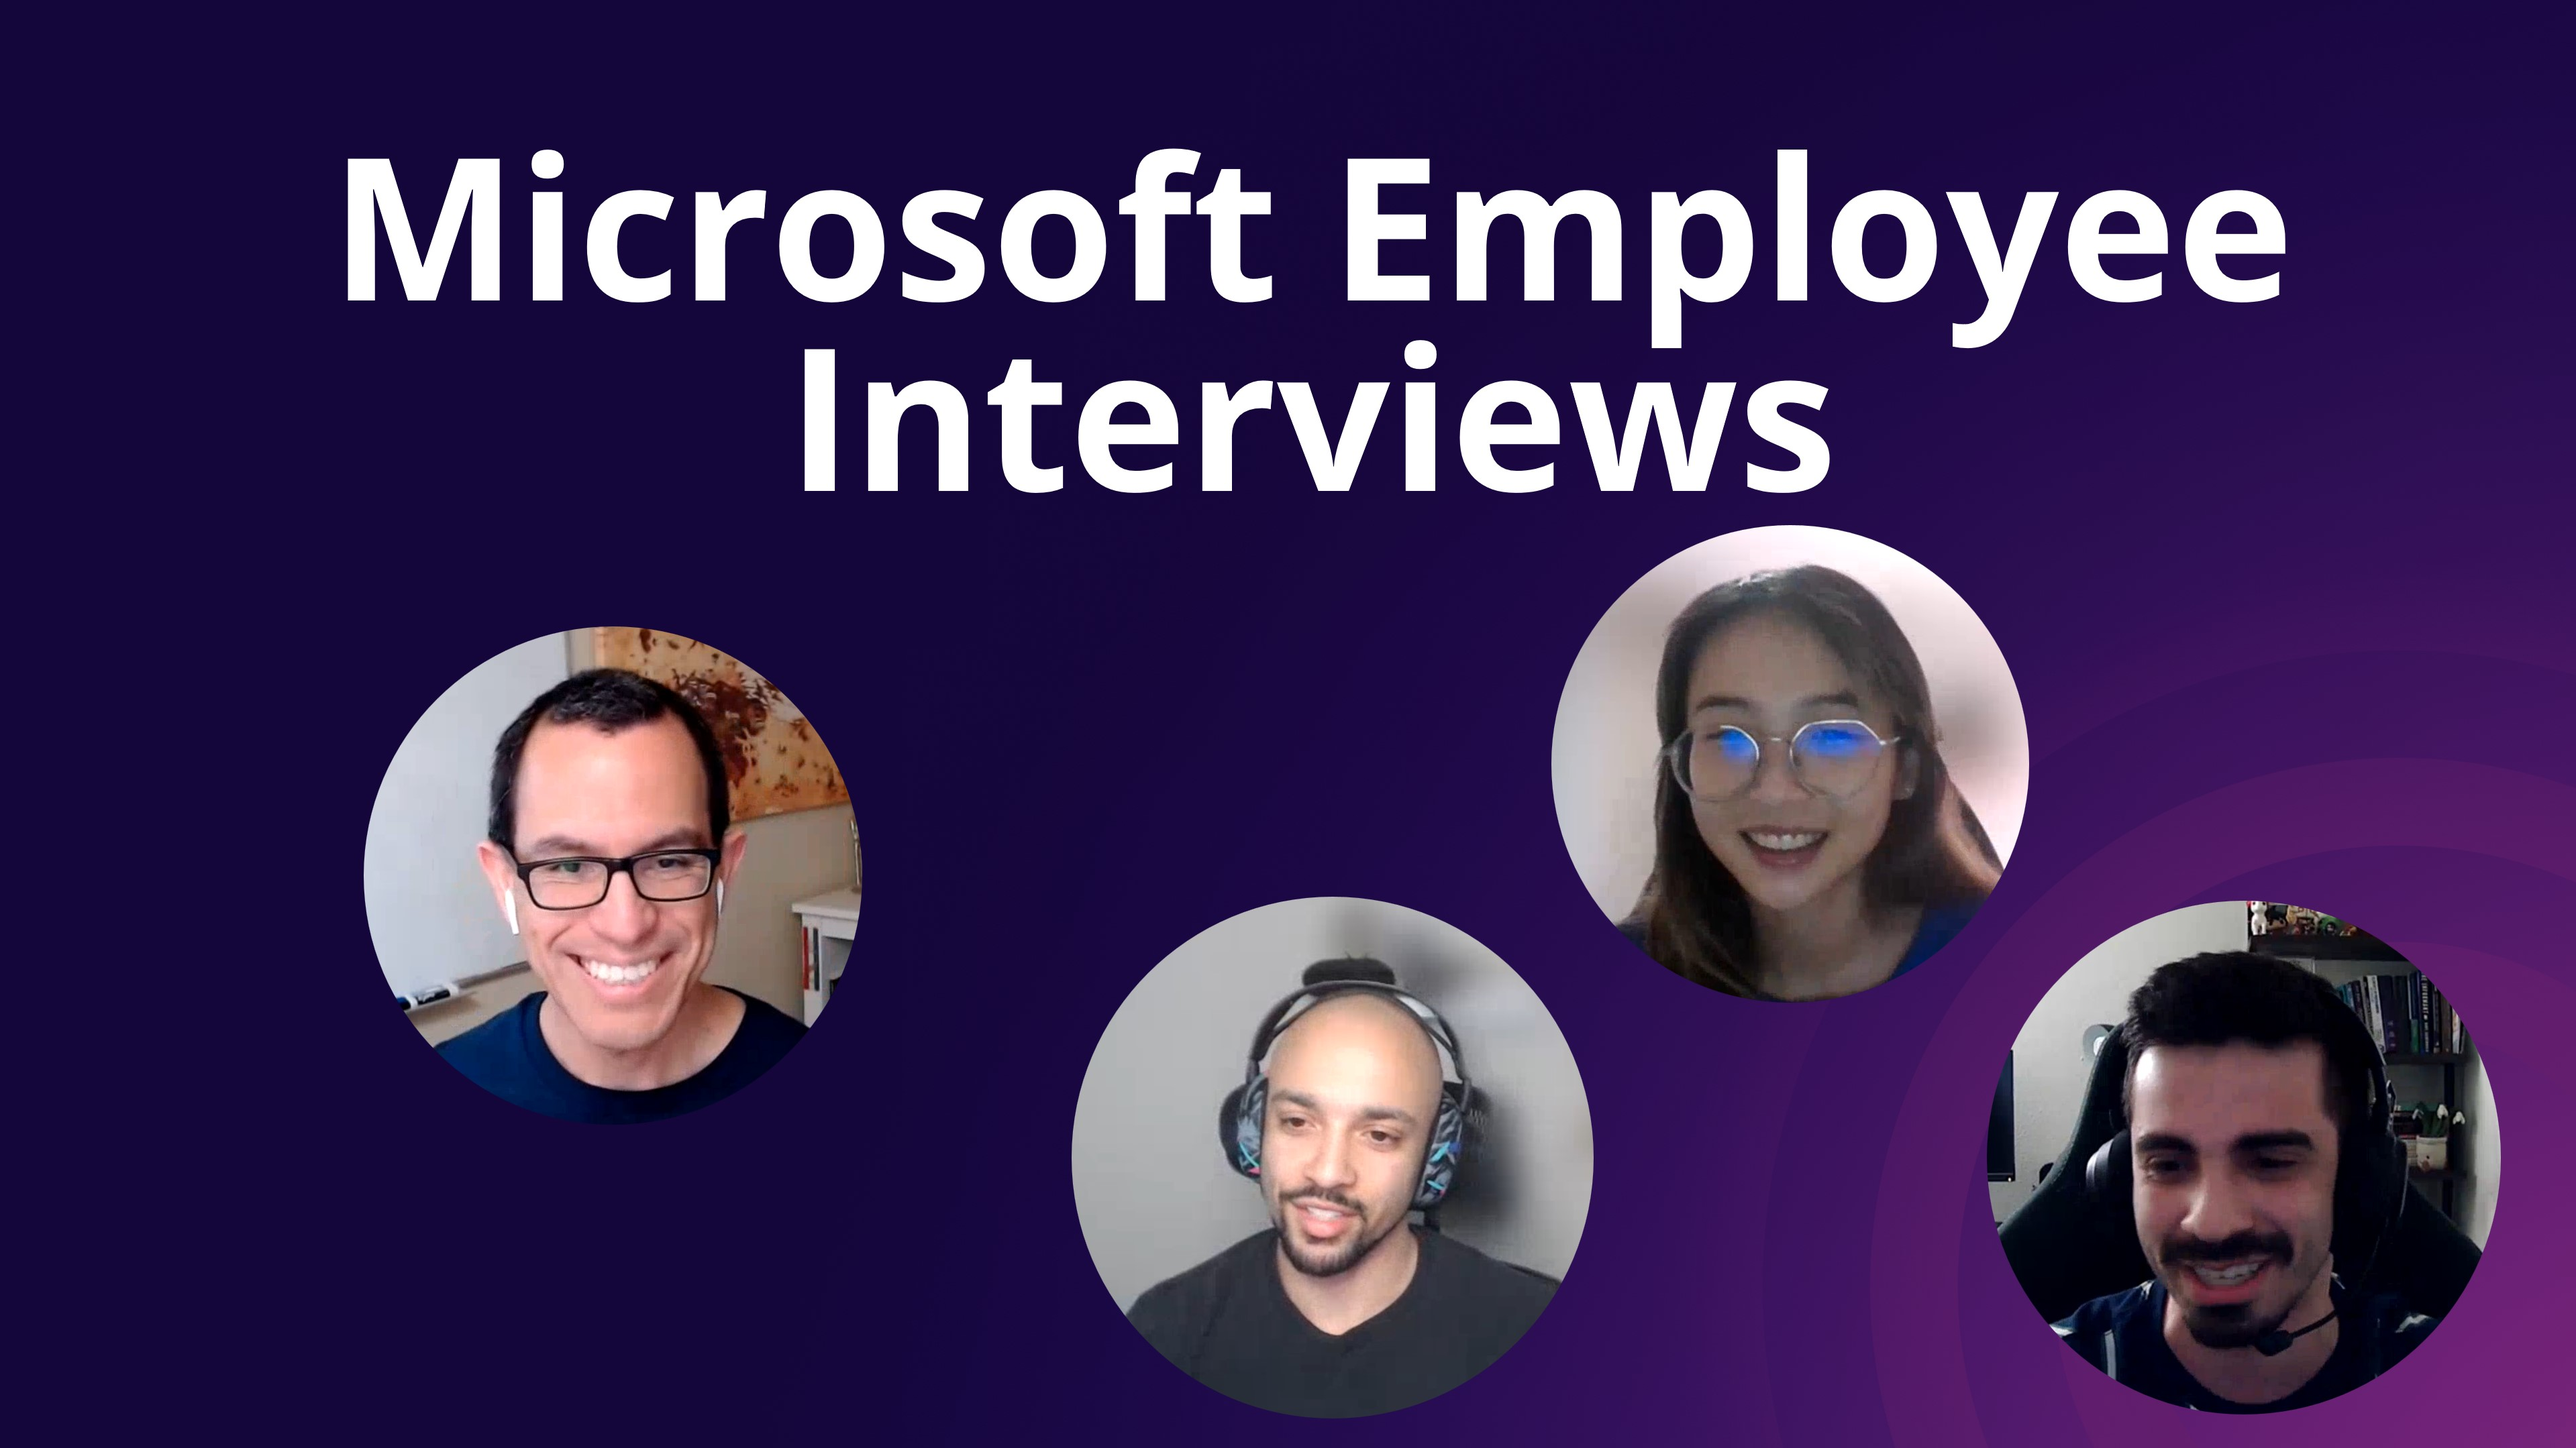
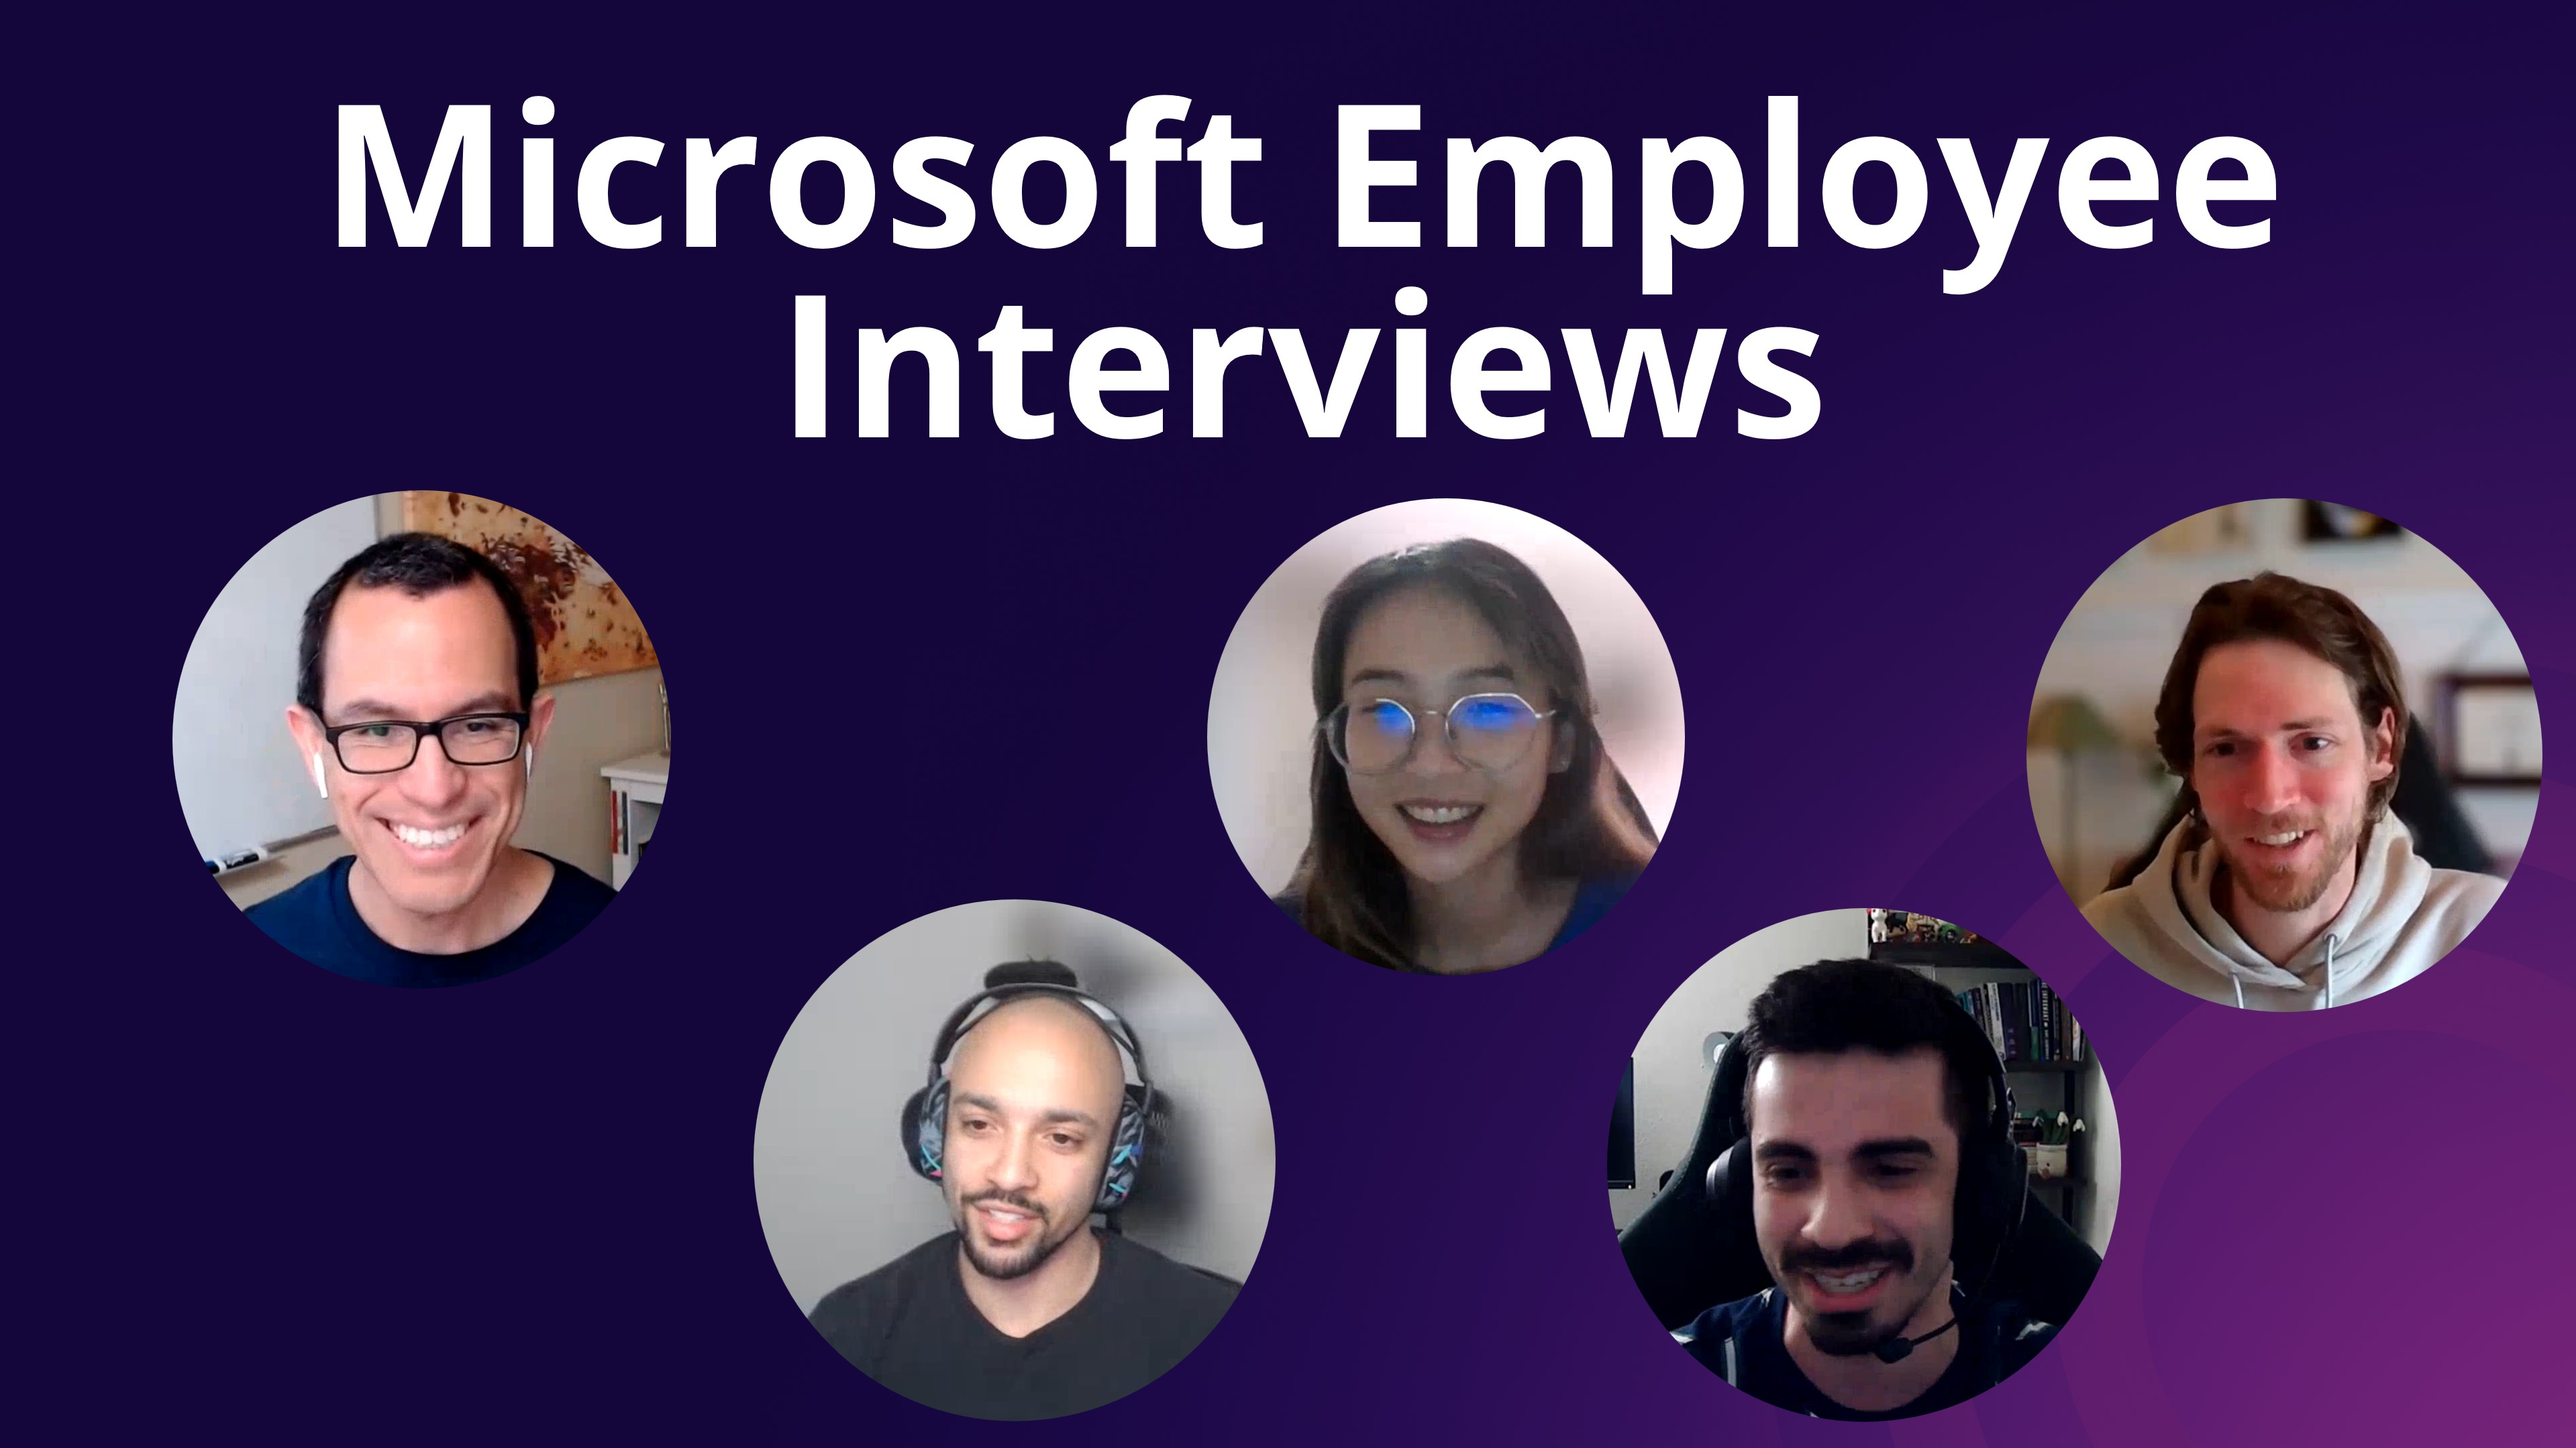
Update number of exclusive interviews in all-access.html

diff --git a/courses/all-access.html b/courses/all-access.html
@@ -402,7 +402,7 @@
                 </div> <!-- end of col -->
                 <div class="col-lg-6 my-auto order-lg-1">
                     <div class="text-container">
-                        <p class="line-spaced-paragraph">Get access to <strong>3 exclusive interviews with Microsoft
+                        <p class="line-spaced-paragraph">Get access to <strong>4 exclusive interviews with Microsoft
                                 employees</strong> that worked with Julio on several real world .NET projects.
                         </p>
                         <p class="line-spaced-paragraph">Learn what it takes to land a job at Microsoft as they discuss
